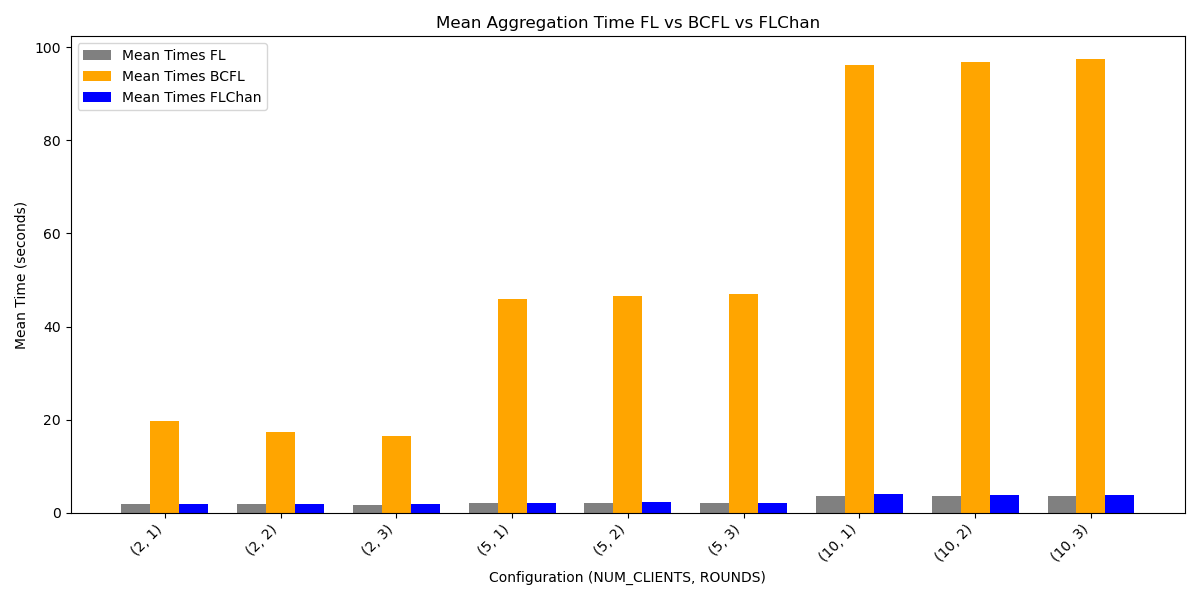
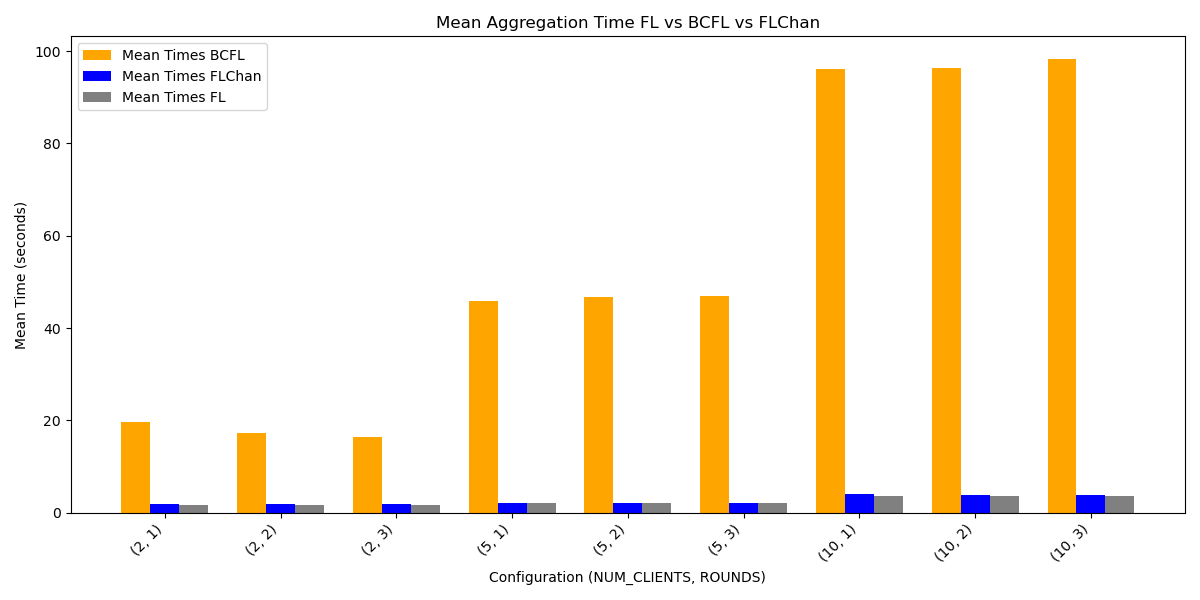
Plot FL time

diff --git a/plot_results.py b/plot_results.py
@@ -62,13 +62,19 @@ def plot_mean_time_diff(data_FL, data_BCFL, data_FLChan, event, title):
     labels, mean_times_FLChan = get_mean_time(data_FLChan, event)
     labels, mean_times_BCFL = get_mean_time(data_BCFL, event)
 
+    min_len = min(len(mean_times_FL), len(mean_times_FLChan), len(mean_times_BCFL))
+    mean_times_FL = mean_times_FL[:min_len]
+    mean_times_FLChan = mean_times_FLChan[:min_len]
+    mean_times_BCFL = mean_times_BCFL[:min_len]
+    labels = labels[:min_len]
+
     plt.figure(figsize=(12, 6))
     width = 0.25
     x = np.arange(len(labels))
 
-    plt.bar(x - width, mean_times_FL, width, label='Mean Times FL', color='gray')
-    plt.bar(x, mean_times_BCFL, width, label='Mean Times BCFL', color='orange')
-    plt.bar(x + width, mean_times_FLChan, width, label='Mean Times FLChan', color='blue')
+    plt.bar(x - width, mean_times_BCFL, width, label='Mean Times BCFL', color='orange')
+    plt.bar(x, mean_times_FLChan, width, label='Mean Times FLChan', color='blue')
+    plt.bar(x + width, mean_times_FL, width, label='Mean Times FL', color='gray')
 
     plt.title(title)
     plt.xlabel('Configuration (NUM_CLIENTS, ROUNDS)')
@@ -106,6 +112,7 @@ log_data_BCFL = parse_log("logs/res_plot/results_BCFL.txt")
 plot_mean_time_diff(log_data_FL, log_data_BCFL, log_data_FLChan, "Training", 'Mean Training Time FL vs BCFL vs FLChan')
 plot_mean_time_diff(log_data_FL, log_data_BCFL, log_data_FLChan, "Aggregating", 'Mean Aggregation Time FL vs BCFL vs FLChan')
 plot_mean_time_diff(log_data_FL, log_data_BCFL, log_data_FLChan, "Round", 'Mean Round Time FL vs BCFL vs FLChan')
+plot_mean_time_diff(log_data_FL, log_data_BCFL, log_data_FLChan, "FL", 'FL Time FL vs BCFL vs FLChan')
 plot_mean_time_diff(log_data_FL, log_data_BCFL, log_data_FLChan, "Experiment", 'Mean E2E Time FL vs BCFL vs FLChan')
 
 

diff --git a/get_stats.py b/get_stats.py
@@ -1,6 +1,7 @@
 from datetime import datetime
 import os
 from natsort import natsorted
+import re
 
 def parse_log_file(log_file_path):
     logs = []
@@ -18,7 +19,7 @@ def parse_log_file(log_file_path):
             timestamp = tokenized_line[1].split(" ")[2] + " " + tokenized_line[1].split(" ")[3]
             timestamp = datetime.strptime(timestamp, '%Y-%m-%d %H:%M:%S,%f')
             log_text = tokenized_line[3]
-            if log_text.startswith("Start") or log_text.startswith("Done"):
+            if log_text.startswith("Start") or log_text.startswith("Done") or log_text.startswith("FL finished"):
                 logs.append((timestamp, log_text))
 
     return logs
@@ -49,6 +50,14 @@ def get_stats(path, output_path=None):
                 if log_text.startswith("Config"):
                     res += log_text + "\n"
                     print(log_text)
+
+                if log_text.startswith("FL finished"):
+                    match = re.search(r'\d+\.\d+', log_text)
+                    if match:
+                        fl_time = float(match.group())
+                        line = f"{timestamp} | time: {fl_time} seconds| {log_text}".replace("\n", "")
+                        res += log_text + "\n"
+                        print(line)
 
                 if log_text.startswith("Start"):
                     match_str = log_text.split(" ")
